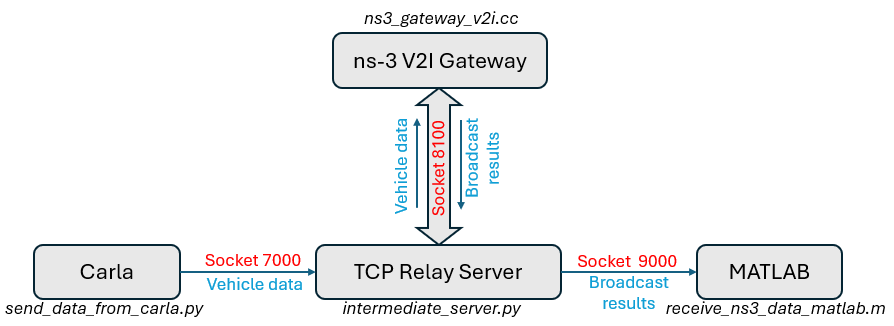
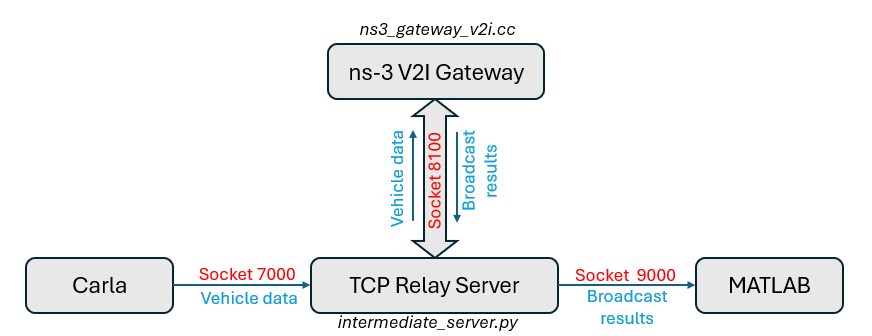
update readme file

Changed region(s): [[0.0, 0.0307, 0.9908, 0.9816]]

diff --git a/ns3-v2i/README.md b/ns3-v2i/README.md
@@ -1,15 +1,11 @@
 
-To be updated
-
 
 # V2I Communication Example
 
 ##  File Included and implementation
 
-- `send_data_from_carla.py`: Sends real-time vehicle telemetry (position, velocity, etc.) over TCP
 - `intermediate_server.py`: Forwards vehicle data to ns-3 and receives broadcast result (e.g., from traffic light); then sends the result to MATLAB
 - `ns3_gateway_v2i.cc`: Simulates network behavior: traffic light broadcasts, vehicles receive
-- `receive_ns3_data_matlab.m`: 	Receives and processes the response data from ns-3 for decision making
 
 ![V2I Co-simulation with CARLA, ns-3, and MATLAB](docs/implementation.png)
 
@@ -40,19 +36,14 @@ To be updated
    pyhton3 /path/to/intermediate_server.py
    ```
 
-
-4. Run Matlab /path/to/receive_ns3_data_matlab.m
-5. Run ns3:
+4. Run ns3:
 
    ```bash
    cd /path/to/ns3_cosim
    ./ns3 run "ns3_gateway_v2i --verbose"
    ```
 
-6. Run the carla data sender
-
-   ```bash
-   pyhton3 /path/to/send_data_from_carla.py
-   ```
+5. Run ROS2 light monitor package
+6. Run ROS2 ad_demo package
 
 
